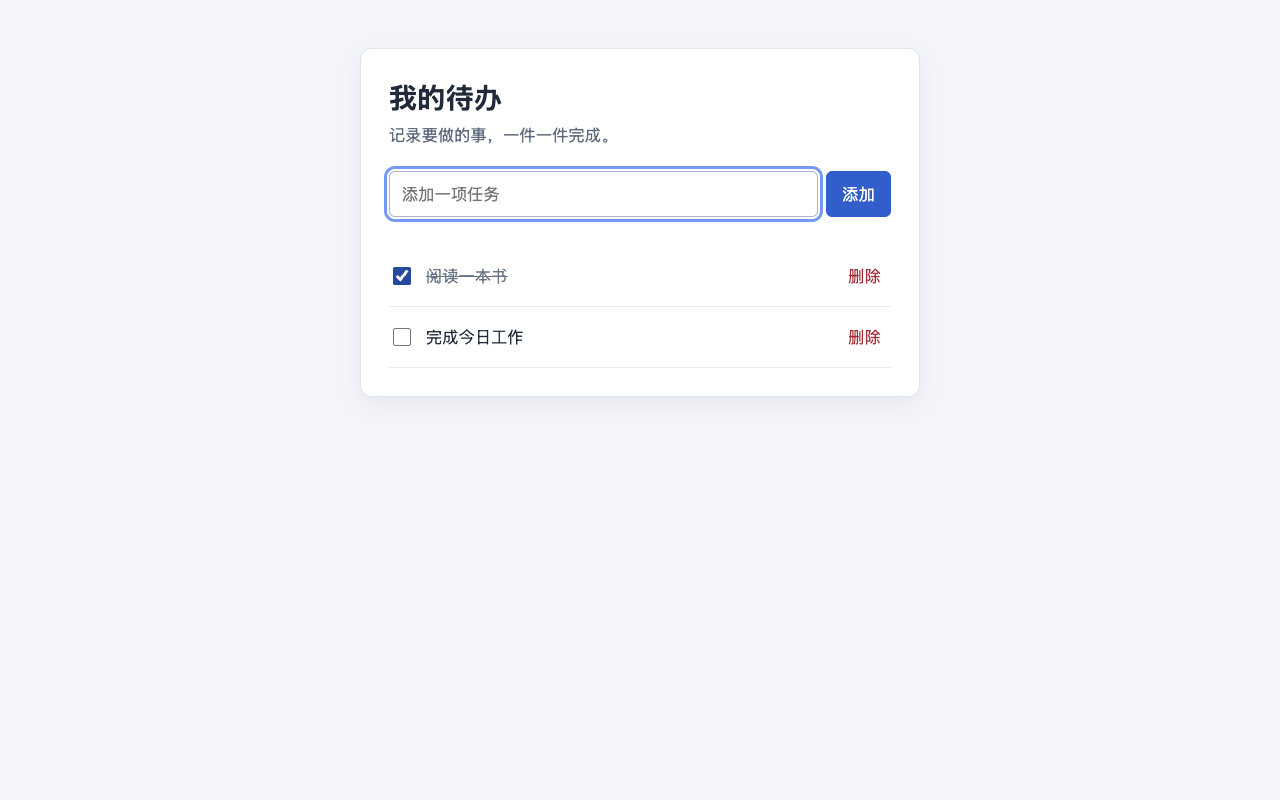
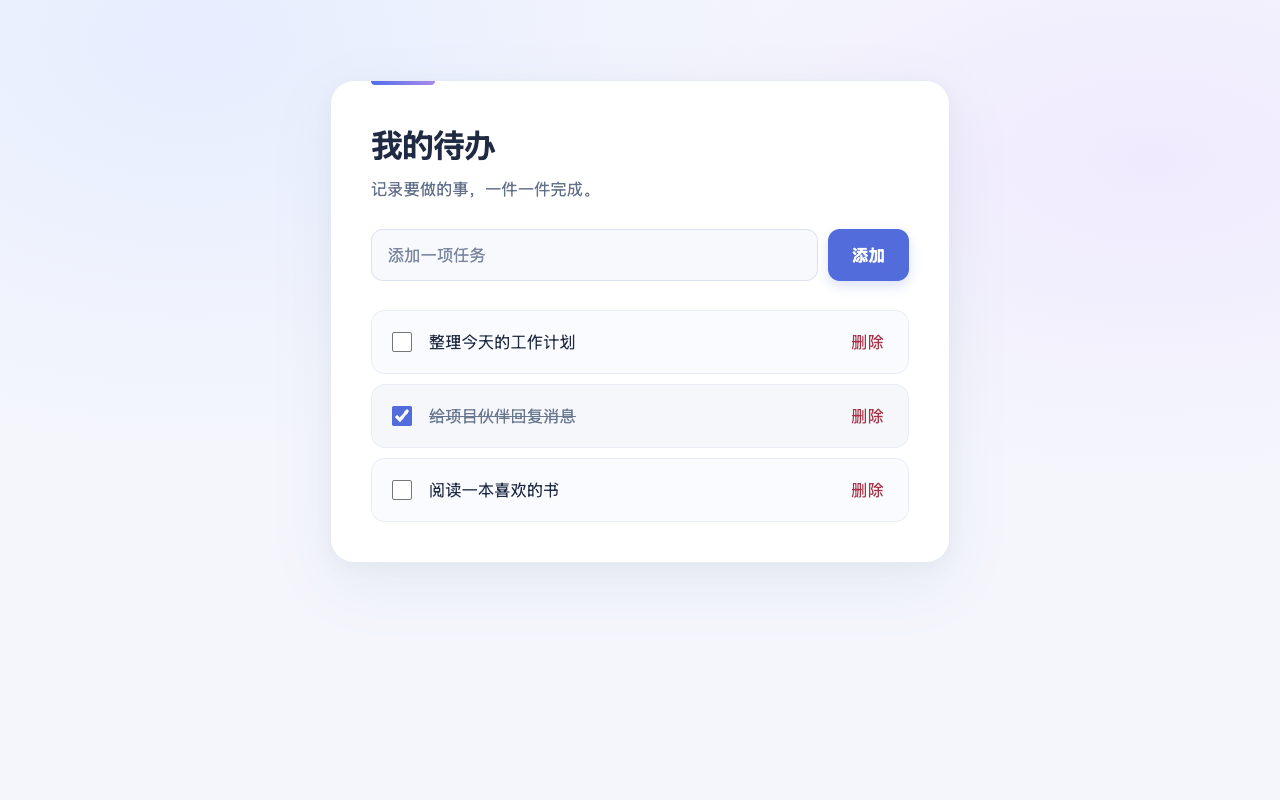
Modernize todo page styling

diff --git a/style.css b/style.css
@@ -1,51 +1,121 @@
 * { box-sizing: border-box; }
+
+:root {
+  color-scheme: light;
+  font-family: system-ui, -apple-system, "PingFang SC", "Microsoft YaHei", sans-serif;
+  color: #202a42;
+  background: #f4f6fc;
+}
+
 body {
-  margin: 0;
   min-height: 100vh;
-  padding: 48px 16px;
-  background: #f3f5f9;
-  color: #202a3a;
-  font: 16px/1.5 system-ui, sans-serif;
+  margin: 0;
+  padding: 80px 20px;
+  background:
+    radial-gradient(ellipse at 15% 5%, #e7edff 0, transparent 38%),
+    radial-gradient(ellipse at 90% 20%, #f0eafe 0, transparent 35%),
+    #f4f6fc;
+  font-size: 16px;
+  line-height: 1.5;
 }
+
 .todo-app {
-  max-width: 560px;
+  position: relative;
+  max-width: 620px;
   margin: 0 auto;
-  padding: 28px;
+  padding: 40px;
+  overflow: hidden;
   background: #fff;
-  border: 1px solid #e0e5ec;
-  border-radius: 12px;
-  box-shadow: 0 8px 24px #1c2b4210;
+  border: 1px solid #e6eaf4;
+  border-radius: 24px;
+  box-shadow: 0 20px 60px #33497514, 0 4px 16px #3349750a;
 }
-h1 { margin: 0; font-size: 1.75rem; }
-.intro { margin: 4px 0 24px; color: #5d6a7d; }
-form { display: flex; gap: 8px; }
+
+.todo-app::before {
+  position: absolute;
+  top: 0;
+  left: 40px;
+  width: 64px;
+  height: 4px;
+  border-radius: 0 0 4px 4px;
+  background: linear-gradient(90deg, #526ee8, #a88bea);
+  content: "";
+}
+
+h1 { margin: 0; font-size: 2rem; letter-spacing: -.04em; }
+.intro { margin: 8px 0 28px; color: #64718b; }
+
+form { display: flex; gap: 10px; }
 input[type="text"] {
   min-width: 0;
+  min-height: 52px;
   flex: 1;
-  padding: 10px 12px;
-  border: 1px solid #aab5c4;
-  border-radius: 6px;
+  padding: 12px 16px;
+  border: 1px solid #dce2ef;
+  border-radius: 12px;
+  background: #f8f9fd;
+  color: inherit;
   font: inherit;
+  transition: border-color .15s, background-color .15s;
 }
-button {
-  padding: 10px 16px;
+input[type="text"]::placeholder { color: #7b879e; }
+input[type="text"]:focus { border-color: #637ce5; background: #fff; }
+
+button { font: inherit; cursor: pointer; }
+form button {
+  min-height: 52px;
+  padding: 12px 24px;
   border: 0;
-  border-radius: 6px;
-  background: #315ecb;
+  border-radius: 12px;
+  background: #526cdb;
+  box-shadow: 0 5px 12px #526cdb33;
   color: #fff;
-  font: inherit;
-  cursor: pointer;
+  font-weight: 600;
+  transition: background-color .15s, box-shadow .15s;
 }
-button:hover { background: #254cae; }
-:focus-visible { outline: 3px solid #7599f4; outline-offset: 2px; }
-#status { min-height: 1.5em; margin: 8px 0 0; color: #5d6a7d; font-size: .875rem; }
-ul { margin: 0; padding: 0; list-style: none; }
-li { display: flex; align-items: center; gap: 12px; padding: 12px 0; border-bottom: 1px solid #e6eaf0; }
-li label { flex: 1; min-width: 0; overflow-wrap: anywhere; cursor: pointer; }
-li input { width: 18px; height: 18px; flex-shrink: 0; accent-color: #315ecb; }
-li.completed label { color: #697587; text-decoration: line-through; }
-li button { padding: 6px 10px; background: transparent; color: #a12c35; }
-li button:hover { background: #fcecef; }
-#empty-state { margin: 16px 0 0; color: #697587; text-align: center; }
+form button:hover { background: #405ac5; box-shadow: 0 6px 16px #526cdb44; }
+:focus-visible { outline: 3px solid #8ba0f5; outline-offset: 3px; }
+
+#status { min-height: 1.5em; margin: 8px 0 0; color: #586781; font-size: .875rem; }
+ul { display: grid; gap: 10px; margin: 0; padding: 0; list-style: none; }
+li {
+  display: flex;
+  min-height: 64px;
+  align-items: center;
+  gap: 14px;
+  padding: 10px 12px 10px 16px;
+  border: 1px solid #e9edf5;
+  border-radius: 14px;
+  background: #fafbfe;
+}
+li label { min-width: 0; flex: 1; overflow-wrap: anywhere; cursor: pointer; }
+li input { width: 20px; height: 20px; flex-shrink: 0; accent-color: #526cdb; cursor: pointer; }
+li.completed { background: #f5f7fa; }
+li.completed label { color: #69778e; text-decoration: line-through; }
+li button {
+  min-height: 40px;
+  padding: 8px 12px;
+  border: 0;
+  border-radius: 9px;
+  background: transparent;
+  color: #a83245;
+}
+li button:hover { background: #fcecf0; }
+#empty-state {
+  margin: 0;
+  padding: 32px 16px;
+  border: 1px dashed #dce2ef;
+  border-radius: 14px;
+  background: #fafbfe;
+  color: #64718b;
+  text-align: center;
+}
 .sr-only { position: absolute; width: 1px; height: 1px; padding: 0; margin: -1px; overflow: hidden; clip: rect(0, 0, 0, 0); white-space: nowrap; border: 0; }
-@media (max-width: 400px) { .todo-app { padding: 20px; } }
+
+@media (max-width: 480px) {
+  body { padding: 28px 14px; }
+  .todo-app { padding: 28px 20px; border-radius: 20px; }
+  .todo-app::before { left: 20px; }
+  h1 { font-size: 1.75rem; }
+  form button { padding-inline: 18px; }
+}
